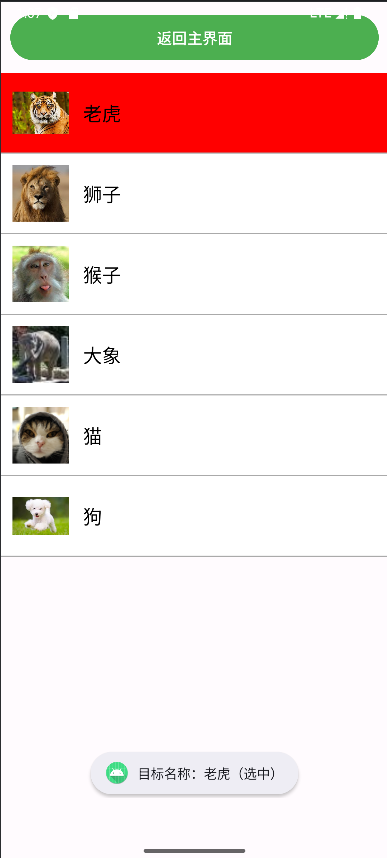
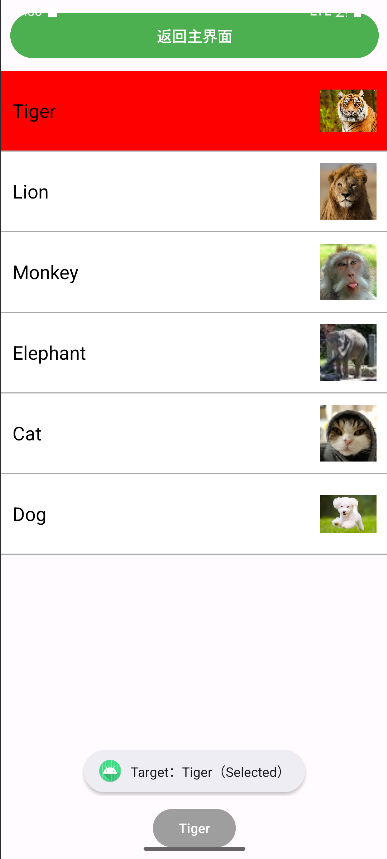
调整实验一、实验二、实验三

diff --git a/exp3/ComponentApplication/app/src/main/java/com/example/componentapplication/AnimalListActivity.java b/exp3/ComponentApplication/app/src/main/java/com/example/componentapplication/AnimalListActivity.java
@@ -27,7 +27,7 @@ import java.util.Map;
 public class AnimalListActivity extends AppCompatActivity {
 
     // 1. 数据准备
-    private final String[] animalNames = {"老虎", "狮子", "猴子", "大象", "猫", "狗"};
+    private final String[] animalNames = {"Tiger", "Lion", "Monkey", "Elephant", "Cat", "Dog"};
     private final int[] animalImages = {
             R.drawable.tiger,
             R.drawable.lion,
@@ -41,6 +41,7 @@ public class AnimalListActivity extends AppCompatActivity {
     private static final String CHANNEL_ID = "animal_channel";
     private ListView lvAnimalList;
     private Button btnBackToMain;
+    private Button btnDynamicAnimal;
 
     @Override
     protected void onCreate(Bundle savedInstanceState) {
@@ -49,6 +50,8 @@ public class AnimalListActivity extends AppCompatActivity {
 
         lvAnimalList = findViewById(R.id.lv_animal_list);
         btnBackToMain = findViewById(R.id.btn_back_to_main);
+        btnDynamicAnimal = findViewById(R.id.btn_dynamic_animal); // 新增：绑定底部按钮
+        btnDynamicAnimal.setText("Please select"); // 新增：设置初始文本
 
         // 2. 适配数据到SimpleAdapter
         List<Map<String, Object>> dataList = new ArrayList<>();
@@ -82,9 +85,11 @@ public class AnimalListActivity extends AppCompatActivity {
                 // 显示Toast
                 Toast.makeText(
                         AnimalListActivity.this,
-                        "目标名称：" + selectedAnimal + (isSelected ? "（选中）" : "（取消选中）"),
+                        "Target：" + selectedAnimal + (isSelected ? "（Selected）" : "（Unselected）"),
                         Toast.LENGTH_LONG
                 ).show();
+
+                btnDynamicAnimal.setText(selectedAnimal);
             }
         });
 

diff --git a/exp3/ComponentApplication/README.md b/exp3/ComponentApplication/README.md
@@ -20,41 +20,41 @@
    ```xml
     <?xml version="1.0" encoding="utf-8"?>
     <LinearLayout xmlns:android="http://schemas.android.com/apk/res/android"
-        android:layout_width="match_parent"
-        android:layout_height="wrap_content"
-        android:orientation="horizontal"
-        android:padding="12dp"
-        android:gravity="center_vertical"
-        android:background="@drawable/item_background"
-        android:clickable="false">
-
+    android:layout_width="match_parent"
+    android:layout_height="wrap_content"
+    android:orientation="horizontal"
+    android:padding="12dp"
+    android:gravity="center_vertical"
+    android:background="@drawable/item_background"
+    android:clickable="false">
+    
+        <TextView
+        android:id="@+id/tv_animal_name"
+        android:layout_width="0dp"
+            android:layout_height="wrap_content"
+            android:layout_weight="1"
+            android:textSize="20sp"
+            android:textColor="@android:color/black"
+            android:layout_marginEnd="15dp"/>
+    
         <ImageView
         android:id="@+id/iv_animal"
         android:layout_width="60dp"
         android:layout_height="60dp"
-        android:scaleType="fitCenter"
-        android:layout_marginEnd="15dp"/>
-
-        <TextView
-        android:id="@+id/tv_animal_name"
-        android:layout_width="wrap_content"
-        android:layout_height="wrap_content"
-        android:textSize="20sp"
-        android:textColor="@android:color/black"/>
-
-        </LinearLayout>
+        android:scaleType="fitCenter"/>
+    
+    </LinearLayout>
    ```
 
 2. **编写主布局 res/layout/activity_animal_list.xml**
    根布局为 LinearLayout，包含 ListView 组件：
    ```xml
-   <?xml version="1.0" encoding="utf-8"?>
-    <!-- 主布局：仅包含一个ListView -->
+    <?xml version="1.0" encoding="utf-8"?>
     <LinearLayout xmlns:android="http://schemas.android.com/apk/res/android"
-        android:layout_width="match_parent"
-        android:layout_height="match_parent"
-        android:orientation="vertical">
-
+    android:layout_width="match_parent"
+    android:layout_height="match_parent"
+    android:orientation="vertical">
+    
         <!-- 返回主界面按钮 -->
         <Button
             android:id="@+id/btn_back_to_main"
@@ -66,27 +66,39 @@
             android:layout_margin="10dp"
             android:backgroundTint="#4CAF50"
             android:textColor="@android:color/white"/>
-
+    
+        <!-- 动物列表 -->
         <ListView
             android:id="@+id/lv_animal_list"
             android:layout_width="match_parent"
-            android:layout_height="match_parent"
+            android:layout_height="0dp"
+            android:layout_weight="1"
             android:divider="@android:color/darker_gray"
-        android:dividerHeight="1dp"/>
-
-</LinearLayout>
+            android:dividerHeight="1dp"/>
+    
+        <!-- 底部动态文本按钮（文本随选中动物变化） -->
+        <Button
+            android:id="@+id/btn_dynamic_animal"
+            android:layout_width="wrap_content"
+            android:layout_height="wrap_content"
+            android:layout_gravity="center"
+            android:layout_margin="10dp"
+            android:backgroundTint="#9E9E9E"
+            android:textColor="@android:color/white"/>
+    
+    </LinearLayout>
    ```
 
 3. **编写 Java 逻辑代码（AnimalListActivity.java）**
    初始化动物数据、设置 SimpleAdapter、处理 item 点击事件（弹 Toast + 发通知）：
    ```java
-    package com.example.componentapplication;
-
+   package com.example.componentapplication;
+    
     import androidx.annotation.RequiresPermission;
     import androidx.appcompat.app.AppCompatActivity;
     import androidx.core.app.NotificationCompat;
     import androidx.core.app.NotificationManagerCompat;
-
+    
     import android.Manifest;
     import android.app.NotificationChannel;
     import android.app.NotificationManager;
@@ -100,16 +112,16 @@
     import android.widget.ListView;
     import android.widget.SimpleAdapter;
     import android.widget.Toast;
-
+    
     import java.util.ArrayList;
     import java.util.HashMap;
     import java.util.List;
     import java.util.Map;
-
+    
     public class AnimalListActivity extends AppCompatActivity {
-
+    
         // 1. 数据准备
-        private final String[] animalNames = {"老虎", "狮子", "猴子", "大象", "猫", "狗"};
+        private final String[] animalNames = {"Tiger", "Lion", "Monkey", "Elephant", "Cat", "Dog"};
         private final int[] animalImages = {
                 R.drawable.tiger,
                 R.drawable.lion,
@@ -118,20 +130,23 @@
                 R.drawable.cat,
                 R.drawable.dog
         };
-
+    
         // 通知相关配置
         private static final String CHANNEL_ID = "animal_channel";
         private ListView lvAnimalList;
         private Button btnBackToMain;
-
+        private Button btnDynamicAnimal;
+    
         @Override
         protected void onCreate(Bundle savedInstanceState) {
             super.onCreate(savedInstanceState);
             setContentView(R.layout.activity_animal_list);
-
+    
             lvAnimalList = findViewById(R.id.lv_animal_list);
             btnBackToMain = findViewById(R.id.btn_back_to_main);
-
+            btnDynamicAnimal = findViewById(R.id.btn_dynamic_animal); // 新增：绑定底部按钮
+            btnDynamicAnimal.setText("Please select"); // 新增：设置初始文本
+    
             // 2. 适配数据到SimpleAdapter
             List<Map<String, Object>> dataList = new ArrayList<>();
             for (int i = 0; i < animalNames.length; i++) {
@@ -140,7 +155,7 @@
                 itemMap.put("name", animalNames[i]);    // 绑定名称
                 dataList.add(itemMap);
             }
-
+    
             // 3. 创建SimpleAdapter，关联数据与列表项布局
             SimpleAdapter adapter = new SimpleAdapter(
                     this,
@@ -149,27 +164,29 @@
                     new String[]{"image", "name"},  // 数据key
                     new int[]{R.id.iv_animal, R.id.tv_animal_name}  // 布局控件ID
             );
-
+    
             lvAnimalList.setAdapter(adapter);
-
+    
             lvAnimalList.setOnItemClickListener(new AdapterView.OnItemClickListener() {
                 @Override
                 public void onItemClick(AdapterView<?> parent, View view, int position, long id) {
                     String selectedAnimal = animalNames[position];
-
+    
                     // 切换选中状态（点击一次选中，再点击取消）
                     boolean isSelected = !view.isSelected();
                     view.setSelected(isSelected); // 关键：更新状态
-
+    
                     // 显示Toast
                     Toast.makeText(
                             AnimalListActivity.this,
-                            "目标名称：" + selectedAnimal + (isSelected ? "（选中）" : "（取消选中）"),
+                            "Target：" + selectedAnimal + (isSelected ? "（Selected）" : "（Unselected）"),
                             Toast.LENGTH_LONG
                     ).show();
+    
+                    btnDynamicAnimal.setText(selectedAnimal);
                 }
             });
-
+    
             // 返回主界面按钮点击事件
             btnBackToMain.setOnClickListener(new View.OnClickListener() {
                 @Override
@@ -180,11 +197,11 @@
                     finish(); // 关闭当前Activity，避免返回栈堆积
                 }
             });
-
+    
             // 初始化通知渠道（Android 8.0+必需）
             createNotificationChannel();
         }
-
+    
         // 创建通知渠道（适配Android 8.0及以上）
         private void createNotificationChannel() {
             if (Build.VERSION.SDK_INT >= Build.VERSION_CODES.O) {
@@ -198,7 +215,7 @@
                 manager.createNotificationChannel(channel);
             }
         }
-
+    
         // （4）发送通知：图标为应用图标，标题为列表项内容
         @RequiresPermission(Manifest.permission.POST_NOTIFICATIONS)
         private void sendNotification(String animalName) {
@@ -207,7 +224,7 @@
             PendingIntent pendingIntent = PendingIntent.getActivity(
                     this, 0, intent, PendingIntent.FLAG_IMMUTABLE
             );
-
+    
             // 构建通知
             NotificationCompat.Builder builder = new NotificationCompat.Builder(this, CHANNEL_ID)
                     .setSmallIcon(R.mipmap.ic_launcher)  // （4）通知图标：应用程序图标
@@ -216,7 +233,7 @@
                     .setContentIntent(pendingIntent)
                     .setAutoCancel(true)  // 点击后自动取消
                     .setPriority(NotificationCompat.PRIORITY_DEFAULT);
-
+    
             // 发送通知
             NotificationManagerCompat.from(this).notify(1, builder.build());
         }
